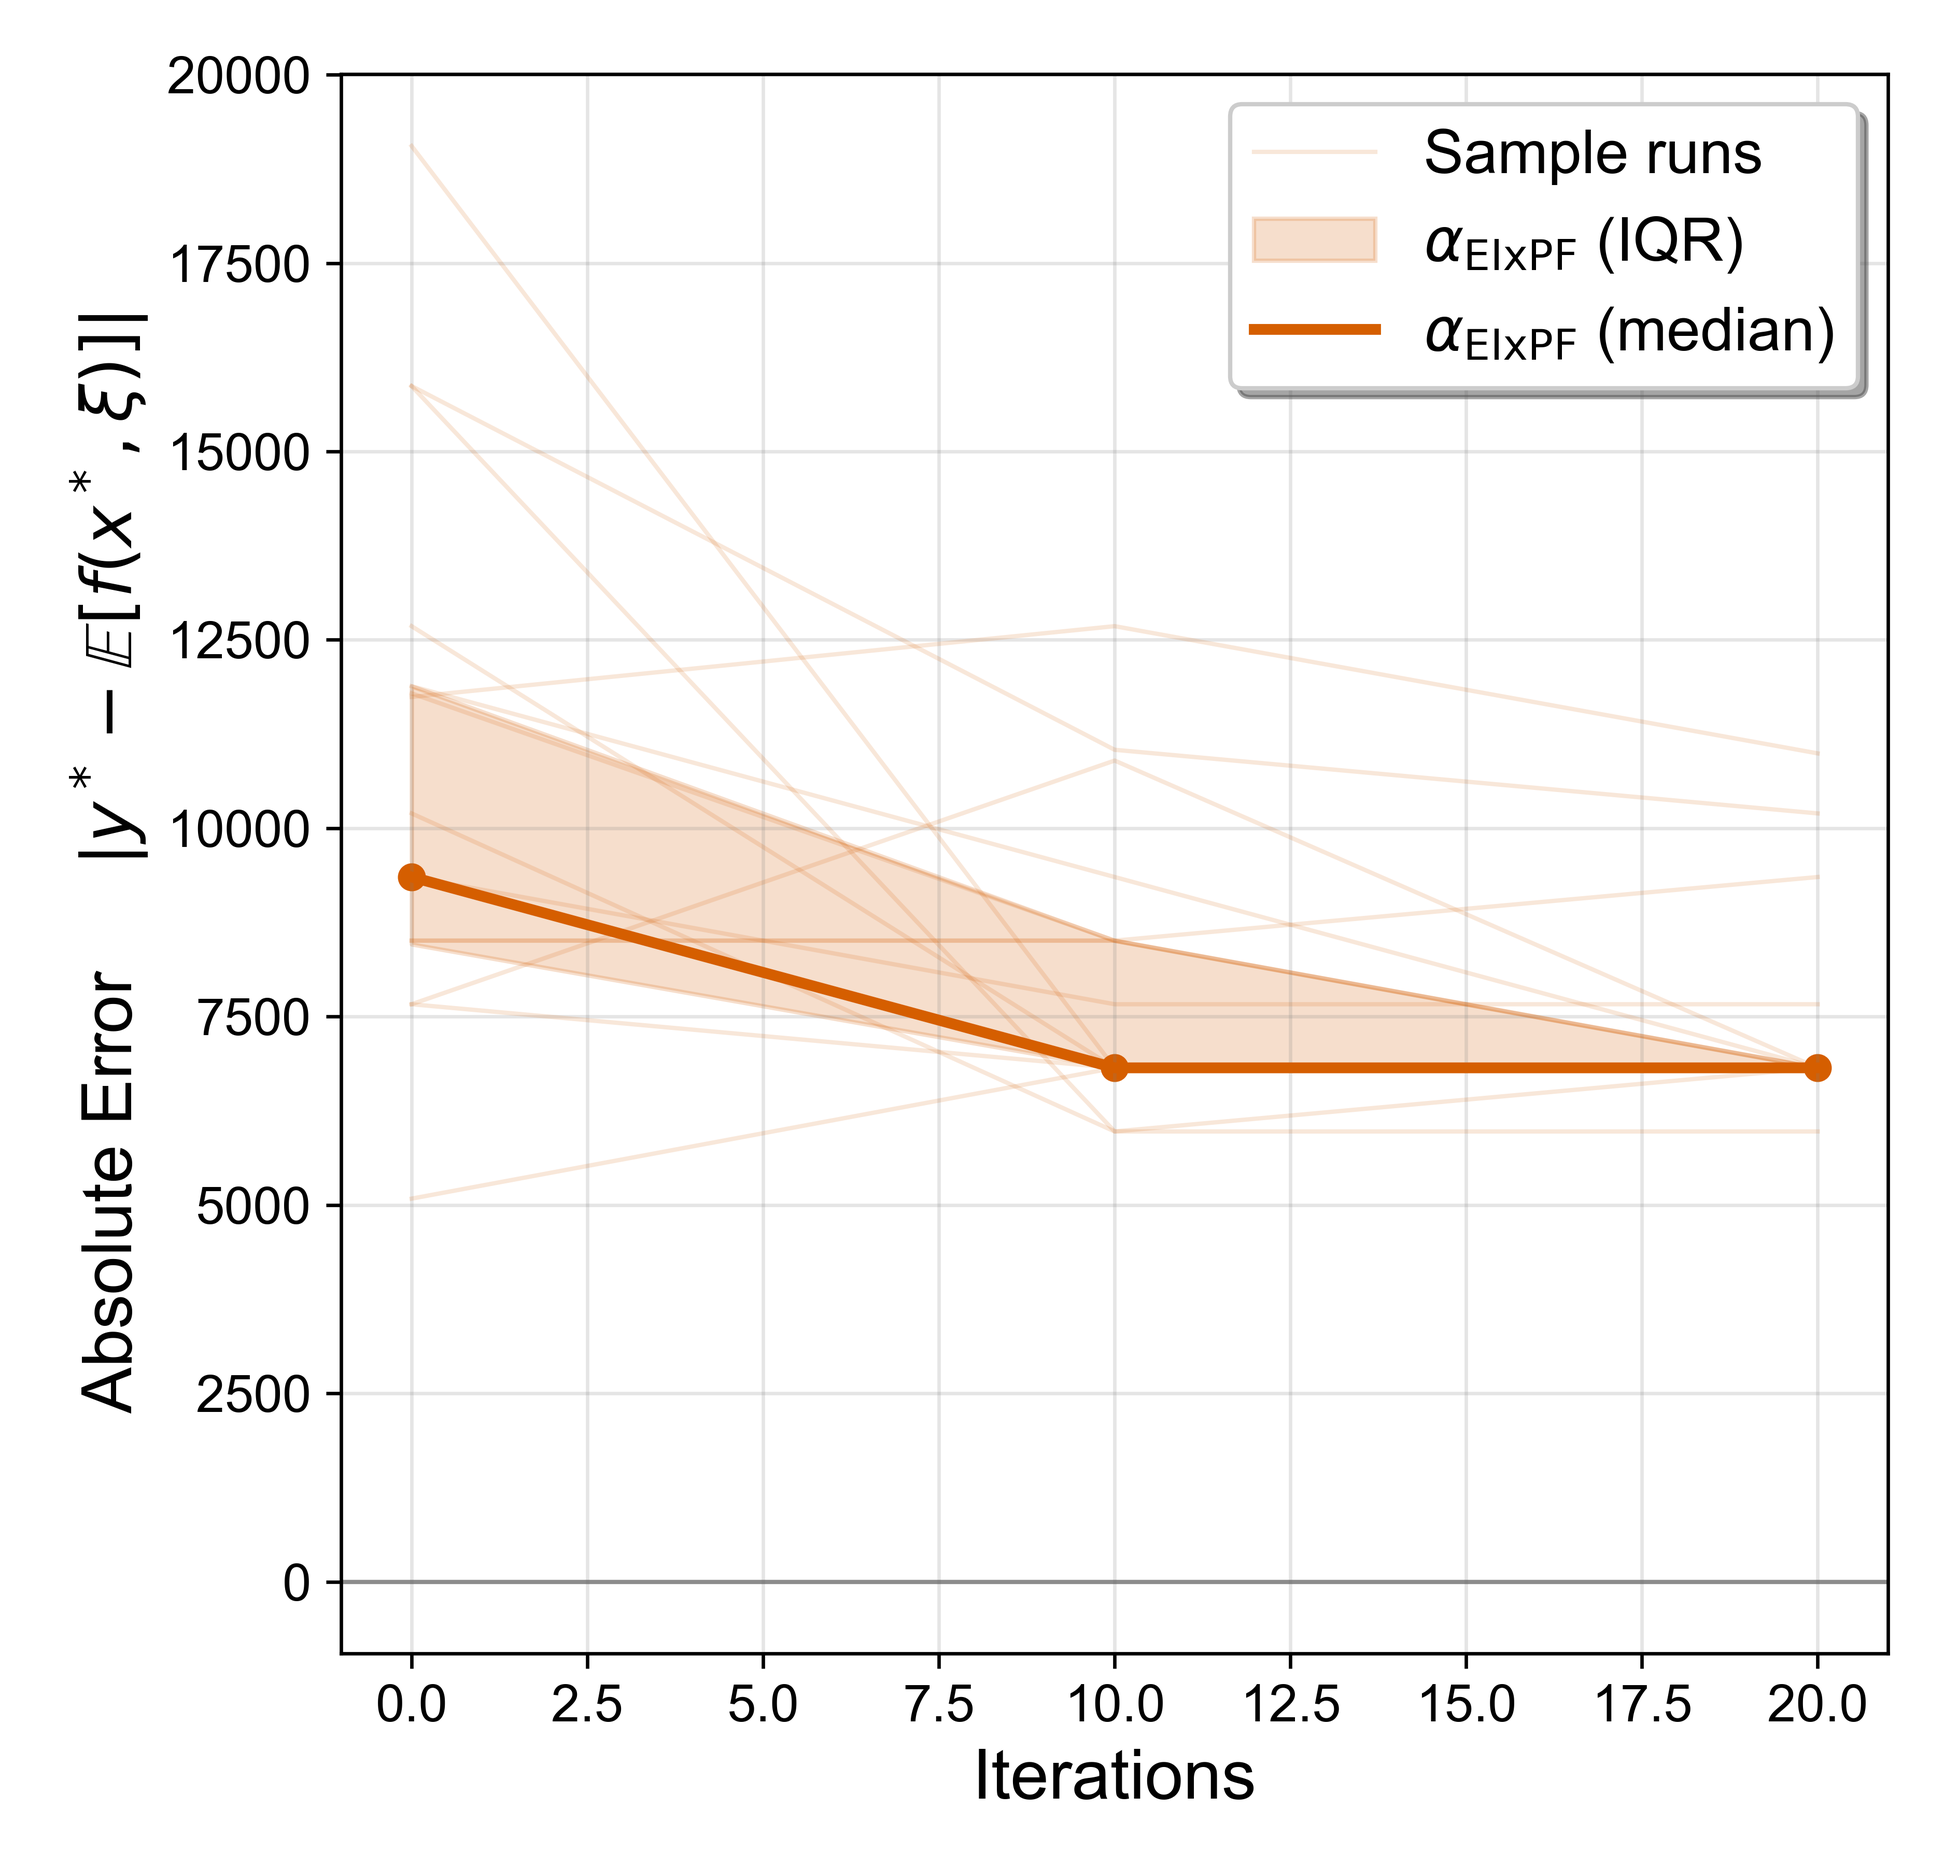
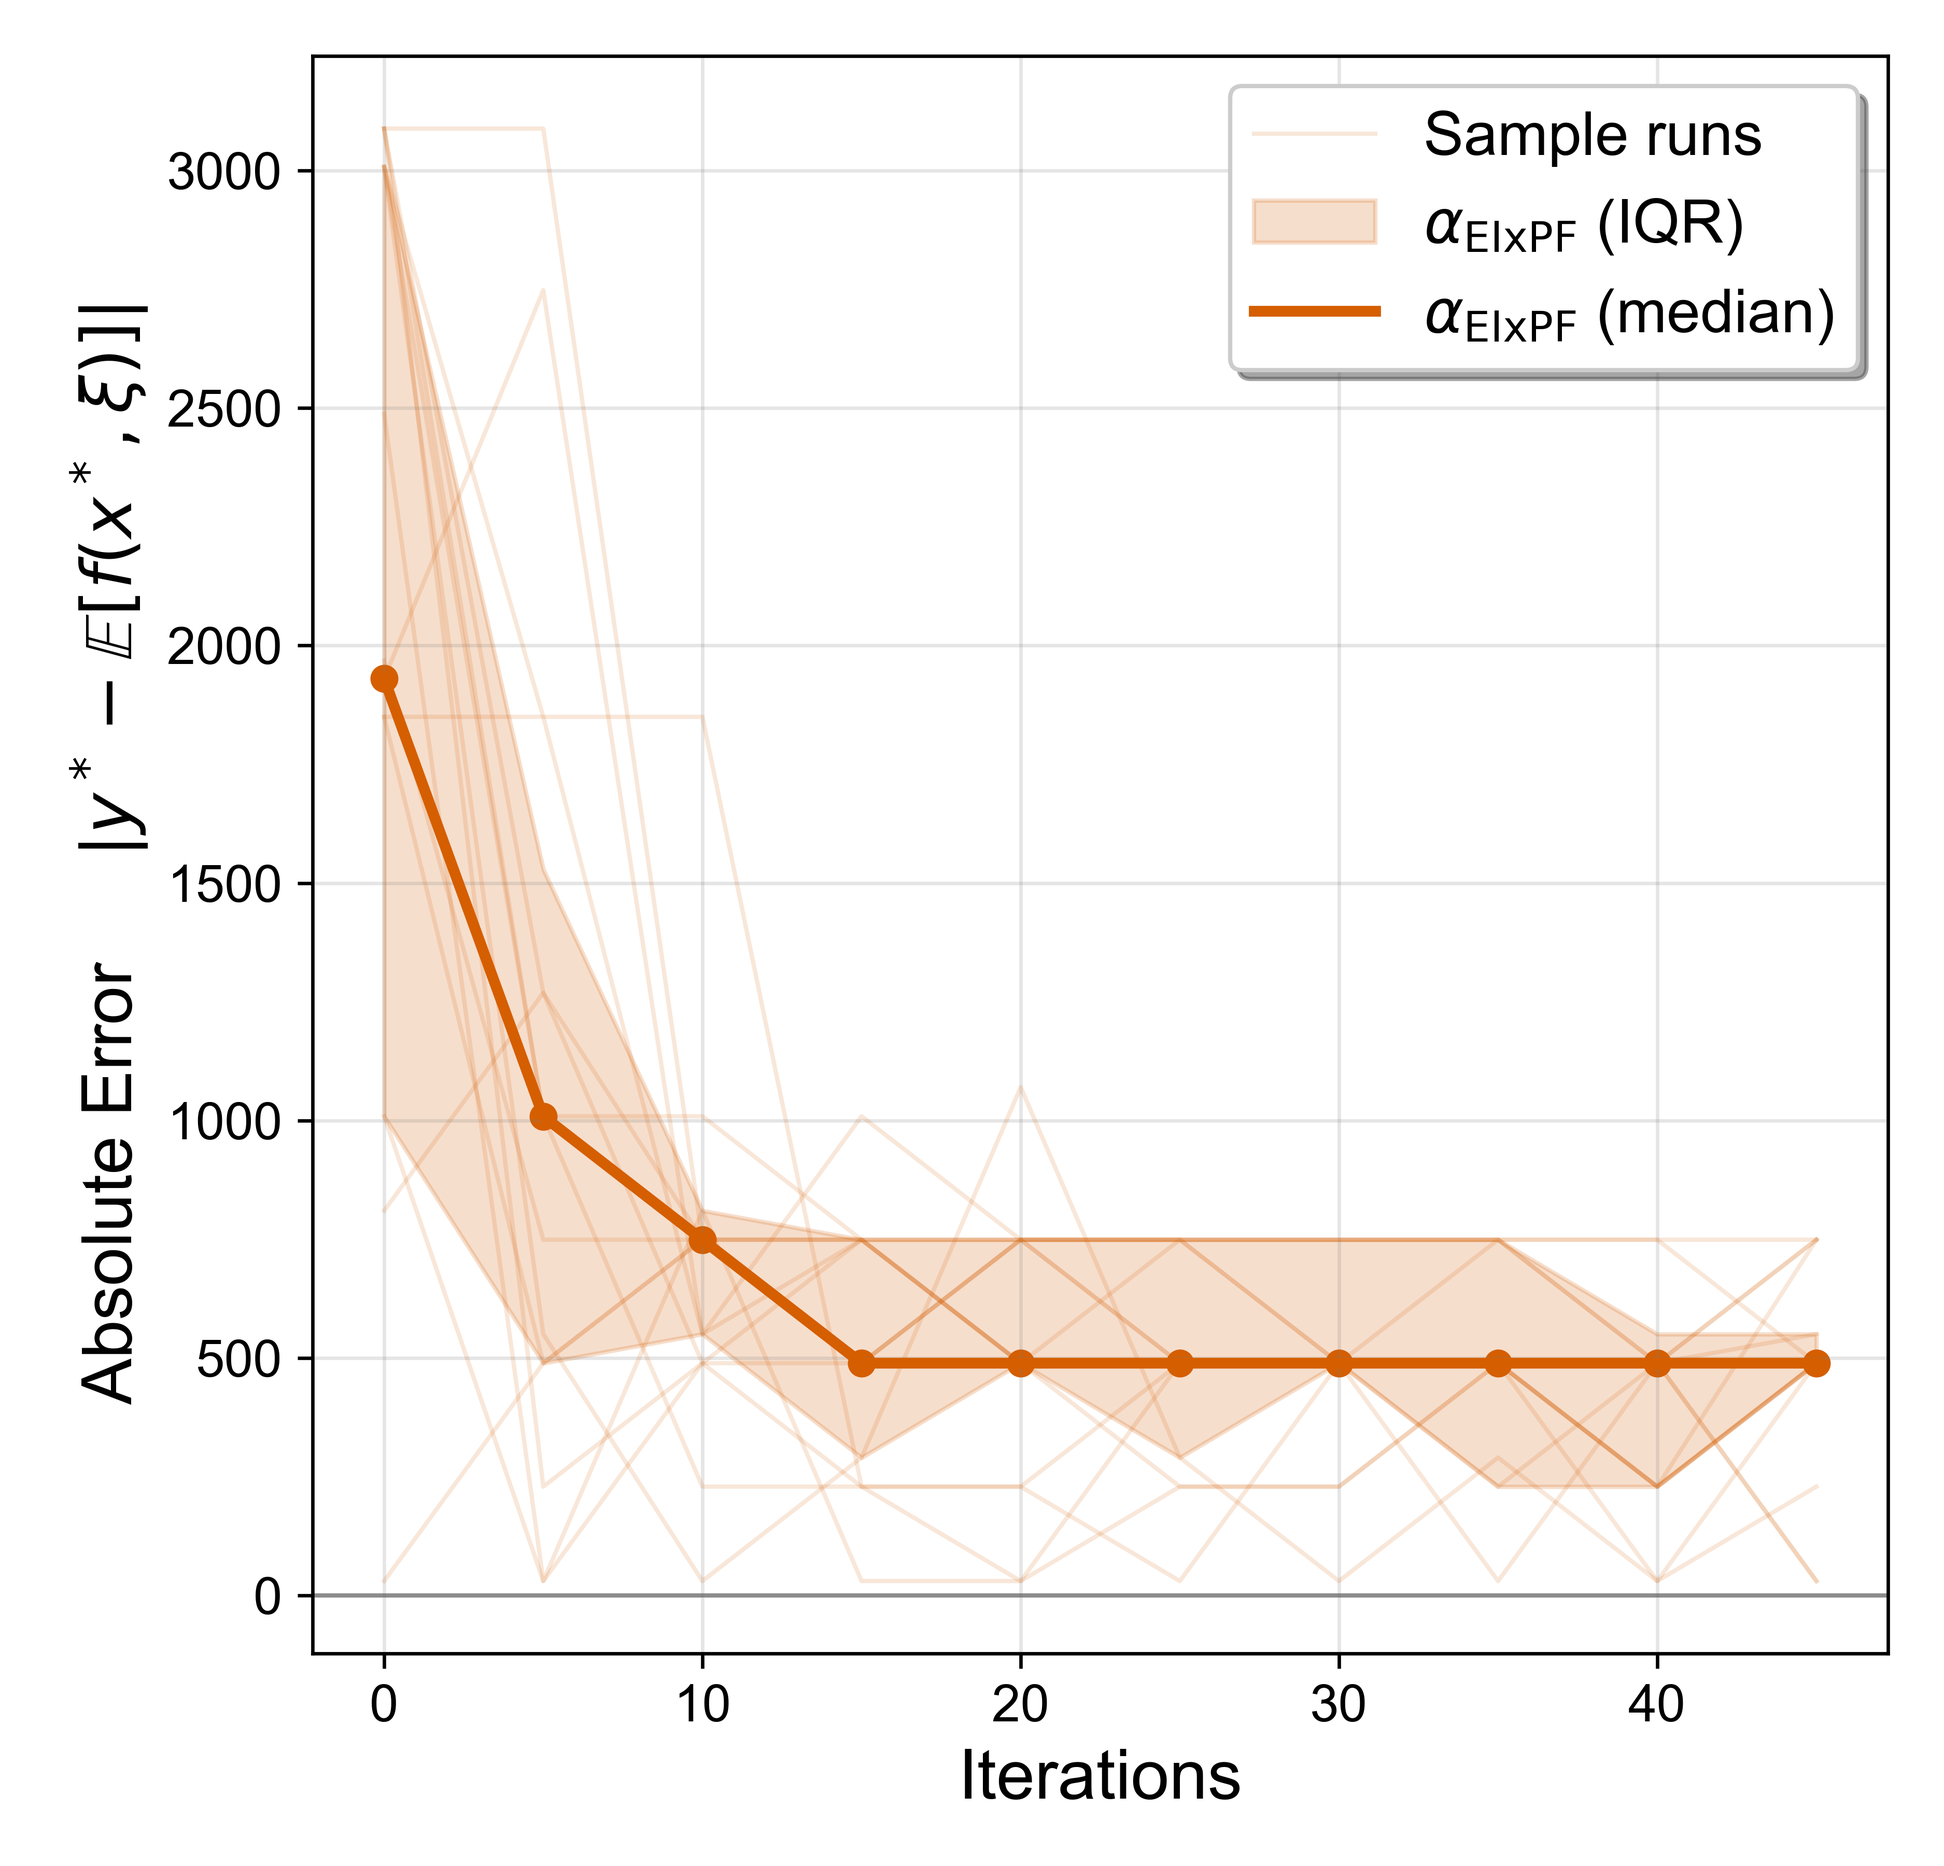
.

diff --git a/examples/paper/prestress_rs.py b/examples/paper/prestress_rs.py
@@ -396,7 +396,7 @@ def bayesopt(ninitial, iters, n):
     P_lower, P_upper = list(problem.param_bounds.values())[0]
     e_lower, e_upper = list(problem.param_bounds.values())[1]
     d_lower, d_upper = list(problem.param_bounds.values())[2]
-    params=(torch.linspace(P_lower, P_upper, steps=5), torch.linspace(e_lower, e_upper, steps=5), torch.linspace(d_lower, d_upper, steps=5)) 
+    params=(torch.linspace(P_lower, P_upper, steps=20), torch.linspace(e_lower, e_upper, steps=4), torch.linspace(d_lower, d_upper, steps=4)) 
     # xopt, _ = borc.surrogate.monte_carlo(params=params, nsamples=int(1e2), obj_type="det", con_type="prob", con_eps=0.01, output=True) # £5584.77 [10.13, 0.45, 0.5]
     # xopt, _ = problem.monte_carlo(params=params, nsamples=int(2e2), obj_type="det", con_type="prob", con_eps=0.01, output=True) 
     # borc.rbo(xopt.to(device), nsamples=int(1e2), return_vals=True) 

diff --git a/examples/paper/prestress_ei.py b/examples/paper/prestress_ei.py
@@ -56,7 +56,7 @@ def bayesopt(ninitial, iters, n):
     P_lower, P_upper = list(problem.param_bounds.values())[0]
     e_lower, e_upper = list(problem.param_bounds.values())[1]
     d_lower, d_upper = list(problem.param_bounds.values())[2]
-    params=(torch.linspace(P_lower, P_upper, steps=5), torch.linspace(e_lower, e_upper, steps=5), torch.linspace(d_lower, d_upper, steps=5)) 
+    params=(torch.linspace(P_lower, P_upper, steps=20), torch.linspace(e_lower, e_upper, steps=4), torch.linspace(d_lower, d_upper, steps=4)) 
 
     # BayesOpt used to sequentially sample [x,xi] points 
     res = torch.ones(iters, ) 

diff --git a/examples/paper/prestress_er.py b/examples/paper/prestress_er.py
@@ -53,7 +53,7 @@ def bayesopt(ninitial, iters, n):
     P_lower, P_upper = list(problem.param_bounds.values())[0]
     e_lower, e_upper = list(problem.param_bounds.values())[1]
     d_lower, d_upper = list(problem.param_bounds.values())[2]
-    params=(torch.linspace(P_lower, P_upper, steps=5), torch.linspace(e_lower, e_upper, steps=5), torch.linspace(d_lower, d_upper, steps=5)) 
+    params=(torch.linspace(P_lower, P_upper, steps=20), torch.linspace(e_lower, e_upper, steps=4), torch.linspace(d_lower, d_upper, steps=4)) 
 
     # BayesOpt used to sequentially sample [x,xi] points 
     res = torch.ones(iters, ) 

diff --git a/examples/paper/results_run.py b/examples/paper/results_run.py
@@ -69,10 +69,10 @@ def main():
     names = ['RS', 'EIxPF-WSE', 'EIxPF'] 
     
     # Experiment parameters
-    RUNS = 2       # runs of each algorithm
-    ITERS = 30      # iterations per run
+    RUNS = 40       # runs of each algorithm
+    ITERS = 50      # iterations per run
     NINITIAL = 5    # initial points per run
-    N = 10          # test every Nth iteration
+    N = 5           # test every Nth iteration
     
     # Derived values
     BATCHS = len(functions)

diff --git a/examples/paper/results_plot.py b/examples/paper/results_plot.py
@@ -63,9 +63,10 @@ def main():
     name = 'prestressed' 
     # y_optimal = -9981.53 
     y_optimal = -5584.77
+    # y_optimal = -5239.96
     
     # YOU NEED TO SET THIS TO MATCH YOUR EXPERIMENT
-    N = 10  # whatever N value was used when generating the data
+    N = 5  # whatever N value was used when generating the data
     
     # Load the data
     file_path = 'data/prestress.pt'
